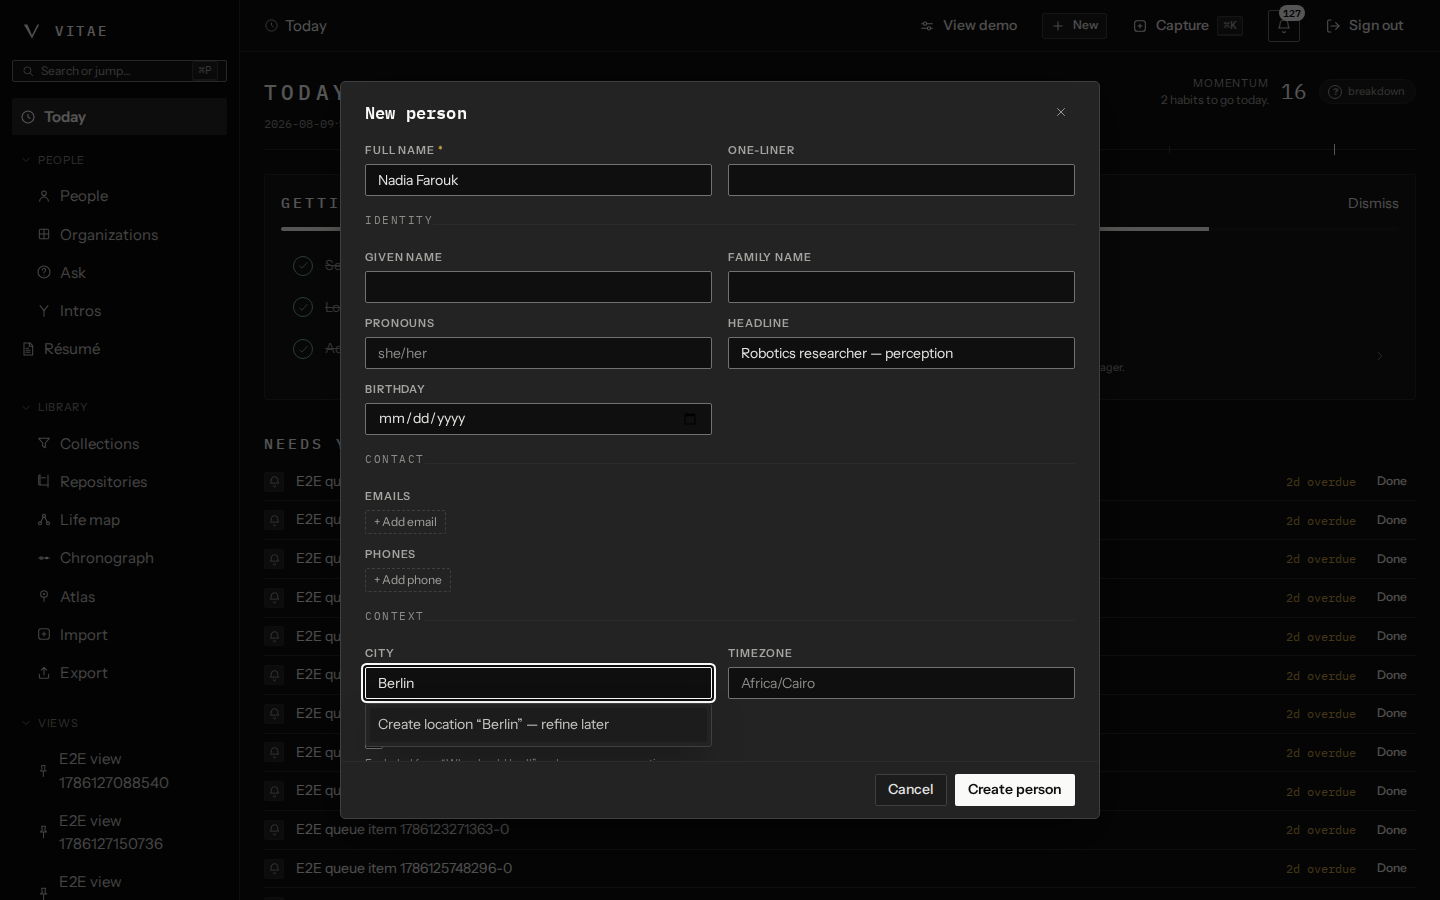
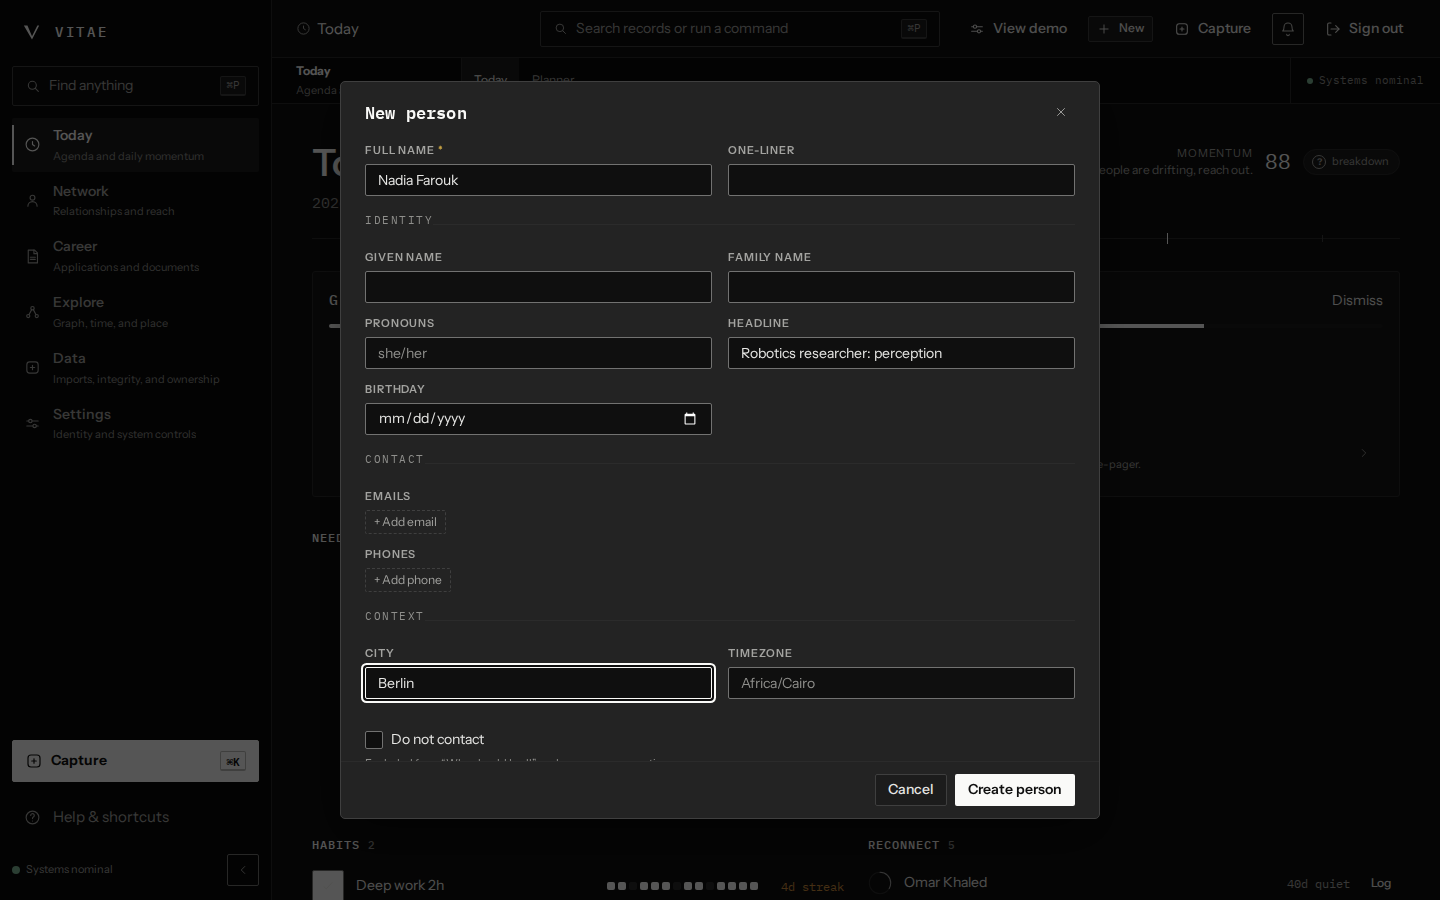
docs(web): show the interface the app actually has
The landing page carries five captures under the label "Real interface ·
fictional demo data", and they were taken on 9 Aug, before the redesign: the
old flat route list, the old chrome, screens that no longer exist. The two
visual baselines were the same vintage.

Recaptured at 1440x900 against the seeded stack with e2e/landing-assets.mjs,
which now drives the canonical routes and asks for roles rather than the
rewritten CSS classes it used to. All seven were reviewed by eye before
committing: the design contract forbids fabricated screenshots, so these have
to be genuine captures, and the hero now shows the six-workspace shell.

diff --git a/CHANGELOG.md b/CHANGELOG.md
@@ -108,6 +108,10 @@ All notable changes are recorded here.
   three are held at their natural width, so on a phone there was nowhere for the
   overflow to go but sideways. The row wraps below 720px: the name takes the
   first line and the rest fall to a second.
+- The landing page advertised the old interface. Its five captures and both
+  visual baselines were taken before the redesign, under the label "Real
+  interface · fictional demo data". They are fresh captures of the current
+  build against the seeded stack.
 
 ## 1.0.0
 
